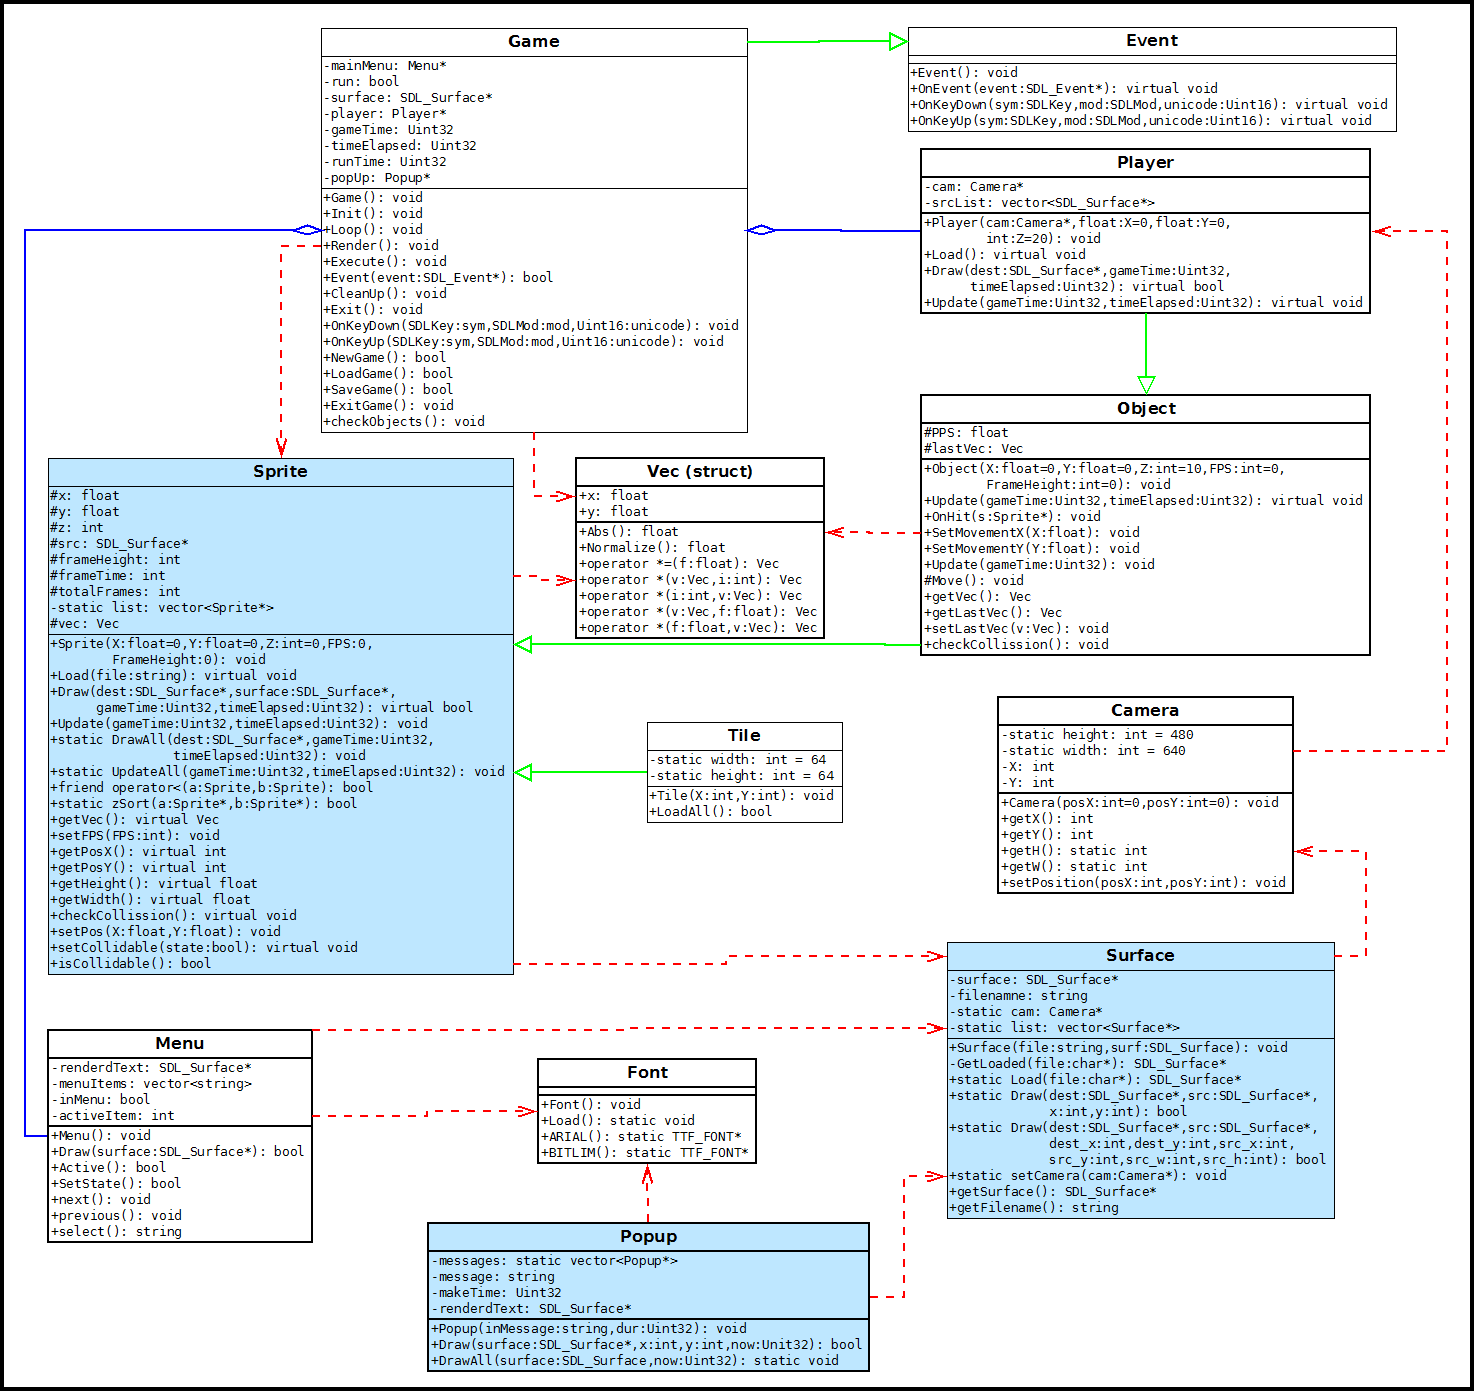
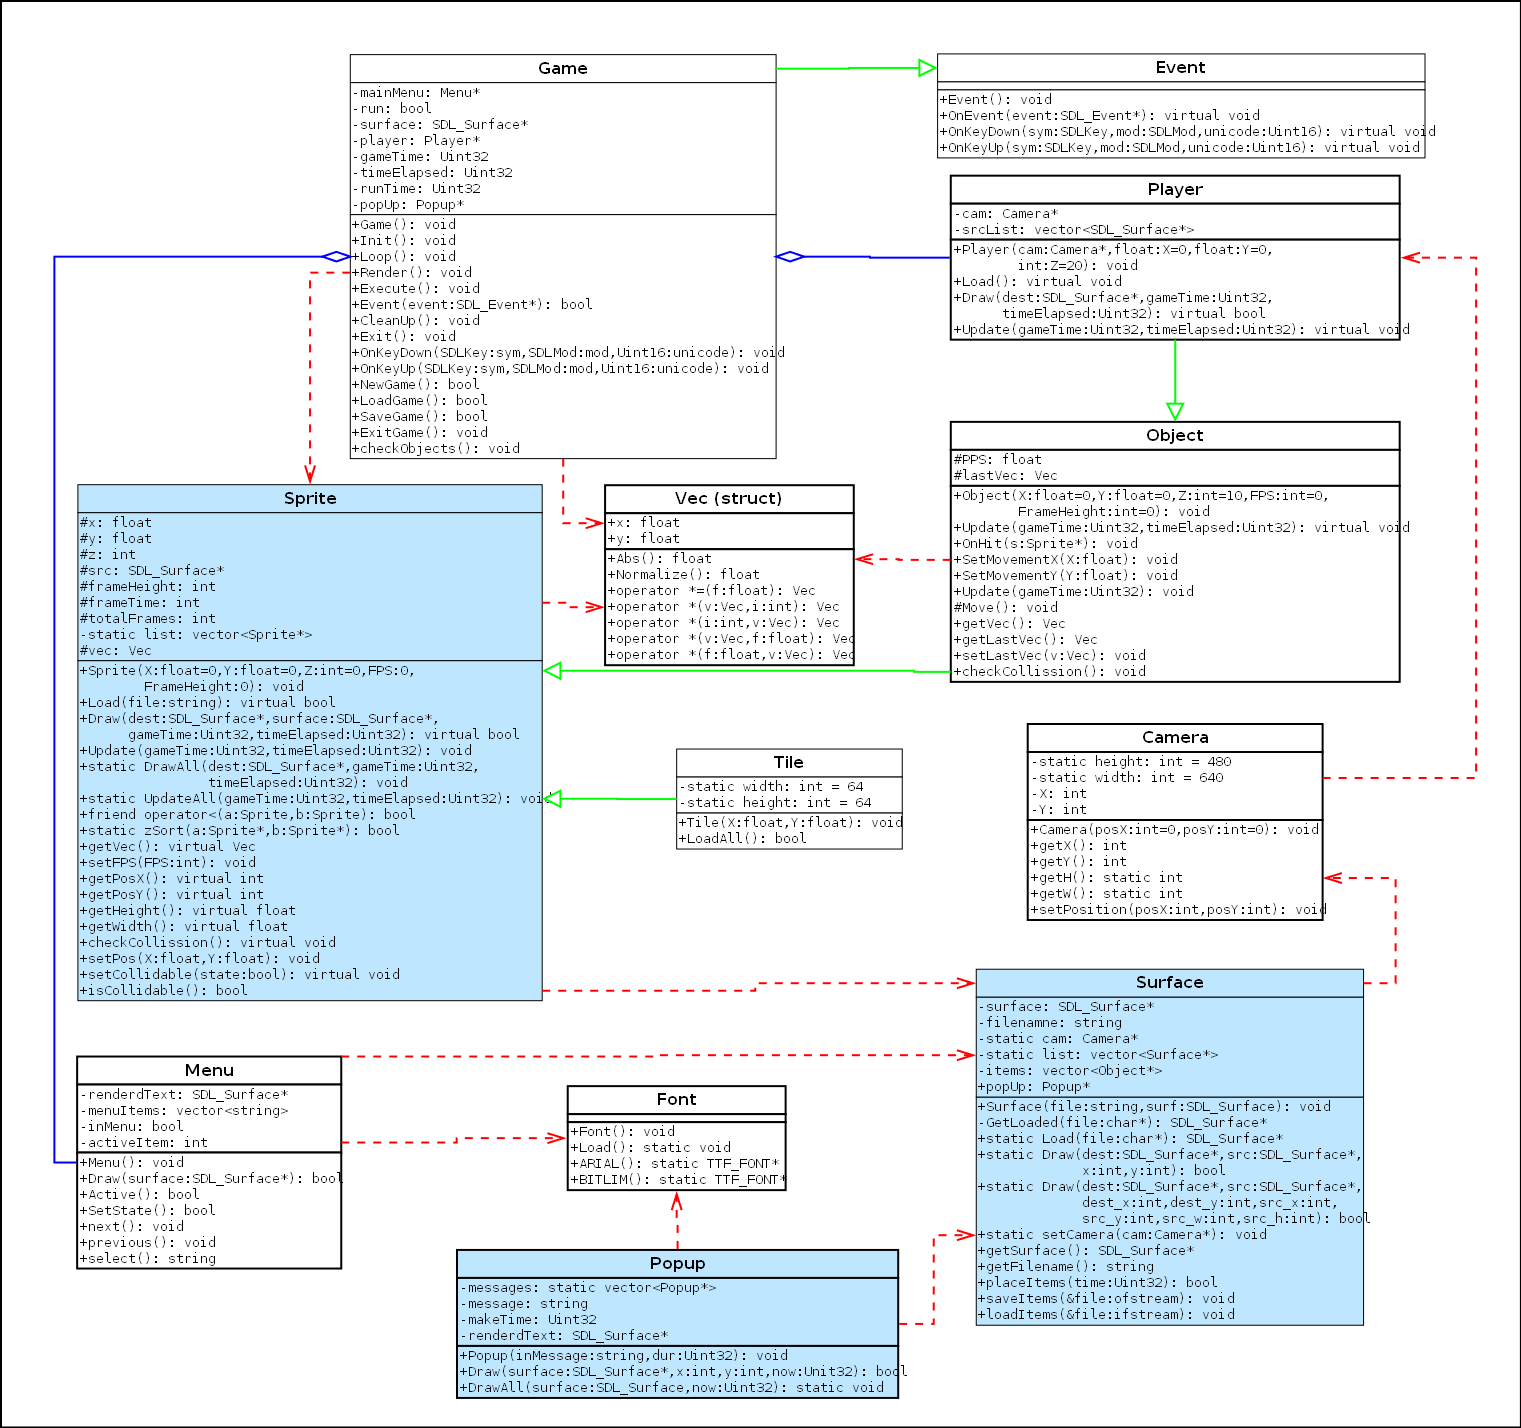
Nya funktioner saveItems(), placeItem() och loadItems() i Player gör det nu möjligt att skriva ut objekt åt den riktning avataren är riktad, spara dem samt att de loadas när ett spel loadas. Klassdiagrammet är uppdaterat efter förändringar och det finns ochså en ny bild av det gällande klassdiagrame

diff --git a/src/Player.cpp b/src/Player.cpp
@@ -110,6 +110,70 @@ bool Player::Draw(SDL_Surface* dest, Uint32 gameTime, Uint32 timeElapsed)
     return Sprite::Draw(dest, gameTime, timeElapsed);
 }
 
+/**
+Places an item if less the 10 are already dislayed
+@param time         A time variable that makes call to Popup from the function possible
+@return true on success, false on fail
+*/
+bool Player::placeItem(Uint32 time)
+{
+    if(items.size()<=9)
+    {
+        Vec temp = lastVec;
+        temp.Normalize();
+
+        Object* testObj = new Object(0, 0, 10);
+        if (testObj->Load("files/sprites/cinnamonbun.png"))
+        {
+            float newX = (x+16+50*lastVec.x)-(testObj->getHeight()/2);
+            float newY = (y+16+50*lastVec.y)-(testObj->getWidth()/2);
+            testObj->setPos(newX, newY);
+            items.push_back(testObj);
+            string str = "Congratz!! You have successfully stored ";
+            string number = static_cast<ostringstream*>( &(ostringstream() << items.size()) )->str();
+            str.append(number);
+            str.append(" bun(s) in your garden! YAY!");
+
+
+            popUp= new Popup(str , time);
+
+             cout << "Player x: " << testObj->getPosX() << " y: " << testObj->getPosY() << endl;
+        }
+        return true;
+    }
+    popUp=new Popup("NO MORE BUNS 4 U!!", time);
+    return false;
+}
+
+/**
+Saves items that has been placed in the world
+@param &file         A stream, passed by reference
+*/
+void Player::saveItems(ofstream &file)
+{
+    for(int i = 0; i<items.size(); i++)
+    {
+        file << items[i]->getPosX() << " " << items[i]->getPosY() << "\n";
+    }
+}
+
+/**
+Loads placed items
+@param dest         A stream, passed by reference
+*/
+void Player::loadItems(ifstream &file)
+{
+    while(file.good())
+    {
+        float x;
+        float y;
+        file >> x >> y;
+        Object * testObj = new Object(x,y,10);
+        testObj->Load("files/sprites/cinnamonbun.png");
+        items.push_back(testObj);
+    }
+}
+
 Player::~Player()
 {
     //dtor

diff --git a/src/Game.cpp b/src/Game.cpp
@@ -177,9 +177,8 @@ void Game::OnKeyDown(SDLKey sym, SDLMod mod, Uint16 unicode)
 
     if(sym == SDLK_SPACE)
     {
-        Object* testObj = new Object(player->getPosX(), player->getPosY()+50, 10);
-        if (testObj->Load("files/sprites/cinnamonbun.png"))
-            cout << "Player x: " << testObj->getPosX() << " y: " << testObj->getPosY() << endl;
+        player->placeItem(runTime);
+
     }
 }
 
@@ -240,7 +239,9 @@ bool Game::SaveGame()
 
     Vec v = player->getLastVec();
 
-    savefile << player->getPosX() << " " << player->getPosY() << " " << v.x << " " << v.y;
+
+    savefile << player->getPosX() << " " << player->getPosY() << " " << v.x << " " << v.y << "\n";
+    player->saveItems(savefile);
     popUp = new Popup("Game saved successfully!", runTime);
 
     savefile.close();
@@ -271,11 +272,14 @@ bool Game::LoadGame()
 
     //if(player == NULL) return false;
     player->setPos(x,y);
+
+    player->loadItems(loadfile);
+
     loadfile.close();
     v.x=a;
     v.y=b;
     player->setLastVec(v);
-    //fixa kanelbullar, urladdning, att man kan loada ett spel direkt
+
     return true;
 }
 
@@ -298,8 +302,6 @@ void Game::Loop()
             SDL_Delay(16-timeElapsed);
     //SDL_Delay(30);
     }
-
-    //updateramenyy
 }
 
 /**
@@ -309,14 +311,12 @@ void Game::Render()
 {
     if(!mainMenu->Active())
     {
-        //Surface::Draw(surface, surface_test, 0, 0);
         Sprite::DrawAll(surface, gameTime, timeElapsed);
     }
     else
     {
         mainMenu->Draw(surface);
-        /*Surface::Draw(surface, text_render_test, 100, 100);
-        text_render_test = TTF_RenderText_Solid(arial_test, "HELLO WORLD!", color_test);*/
+
     }
 
     popUp->DrawAll(surface, runTime);

diff --git a/include/Player.h b/include/Player.h
@@ -6,6 +6,10 @@
 #include "../include/Object.h"
 #include "../include/Surface.h"
 #include "../include/Camera.h"
+#include "../include/Popup.h"
+#include <sstream>
+#include <iostream>
+#include <fstream>
 
 class Player : public Object
 {
@@ -15,10 +19,15 @@ class Player : public Object
         virtual void Load();
         virtual bool Draw(SDL_Surface* dest, Uint32 gameTime, Uint32 timeElapsed);
         virtual void Update(Uint32 gameTime, Uint32 timeElapsed);
+        bool placeItem(Uint32 time);
+        void saveItems(ofstream &file);
+        void loadItems(ifstream &file);
     protected:
     private:
         Camera* cam;
         vector<SDL_Surface*> srcList;
+        vector<Object*> items;
+        Popup*          popUp;
 };
 
 #endif // PLAYER_H

diff --git a/src/Sprite.cpp b/src/Sprite.cpp
@@ -103,7 +103,7 @@ static: Draws all sprites. Iterates through all Sprite's and calls Sprite::Draw 
 */
 /*static*/ void Sprite::DrawAll(SDL_Surface* dest, Uint32 gameTime, Uint32 timeElapsed)
 {
-    //sorterar vektorn efter vilket lager de ligger i (vilken z-koordinat de har) i stigande ordn.
+
     sort(list.begin(), list.end(), Sprite::zSort);
 
     int drawed = 0;
